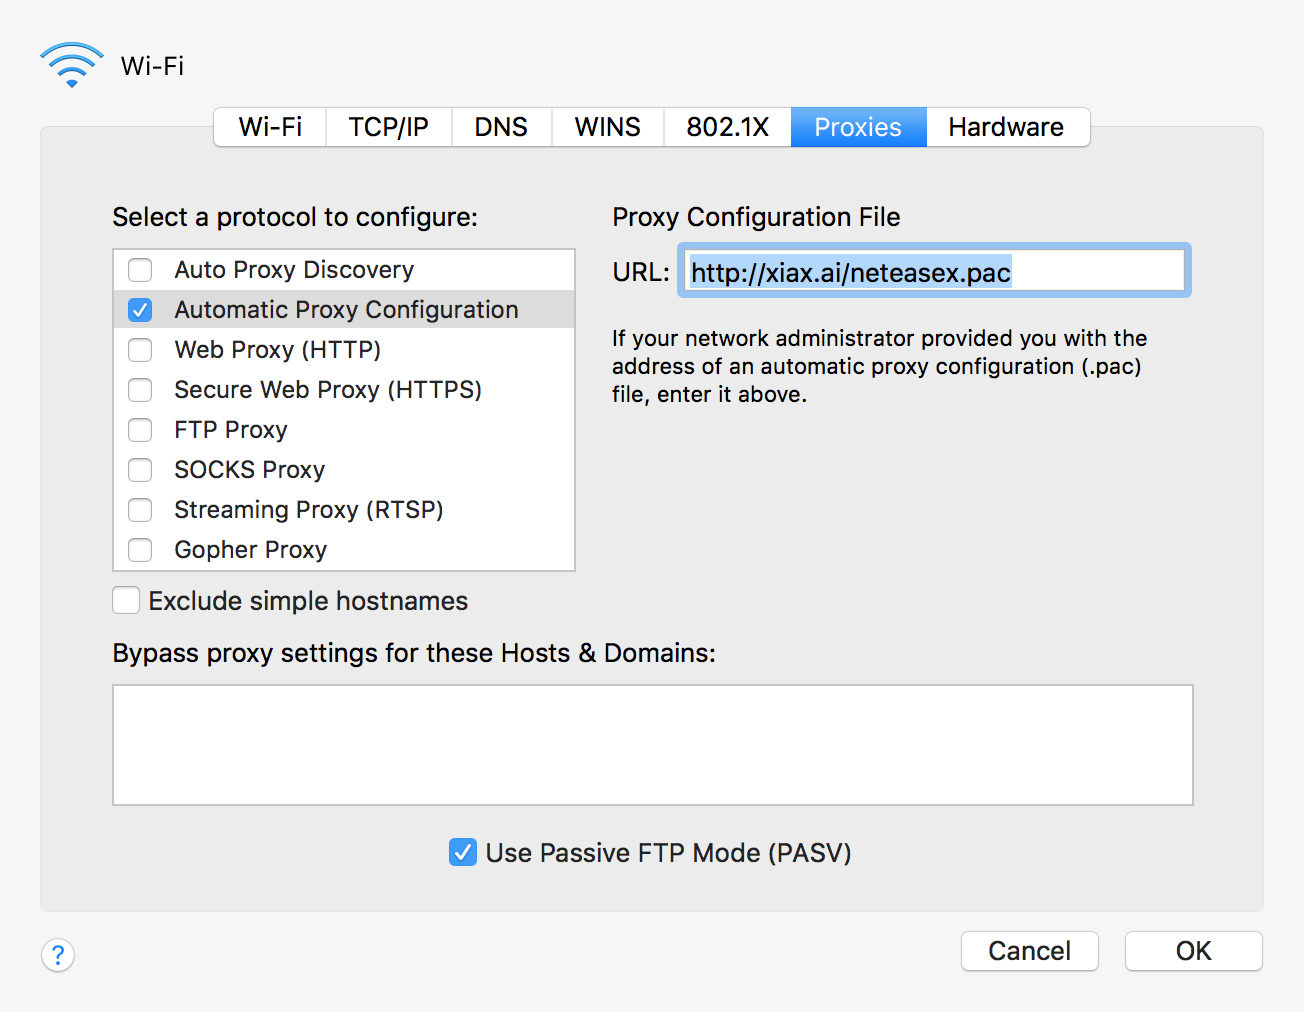
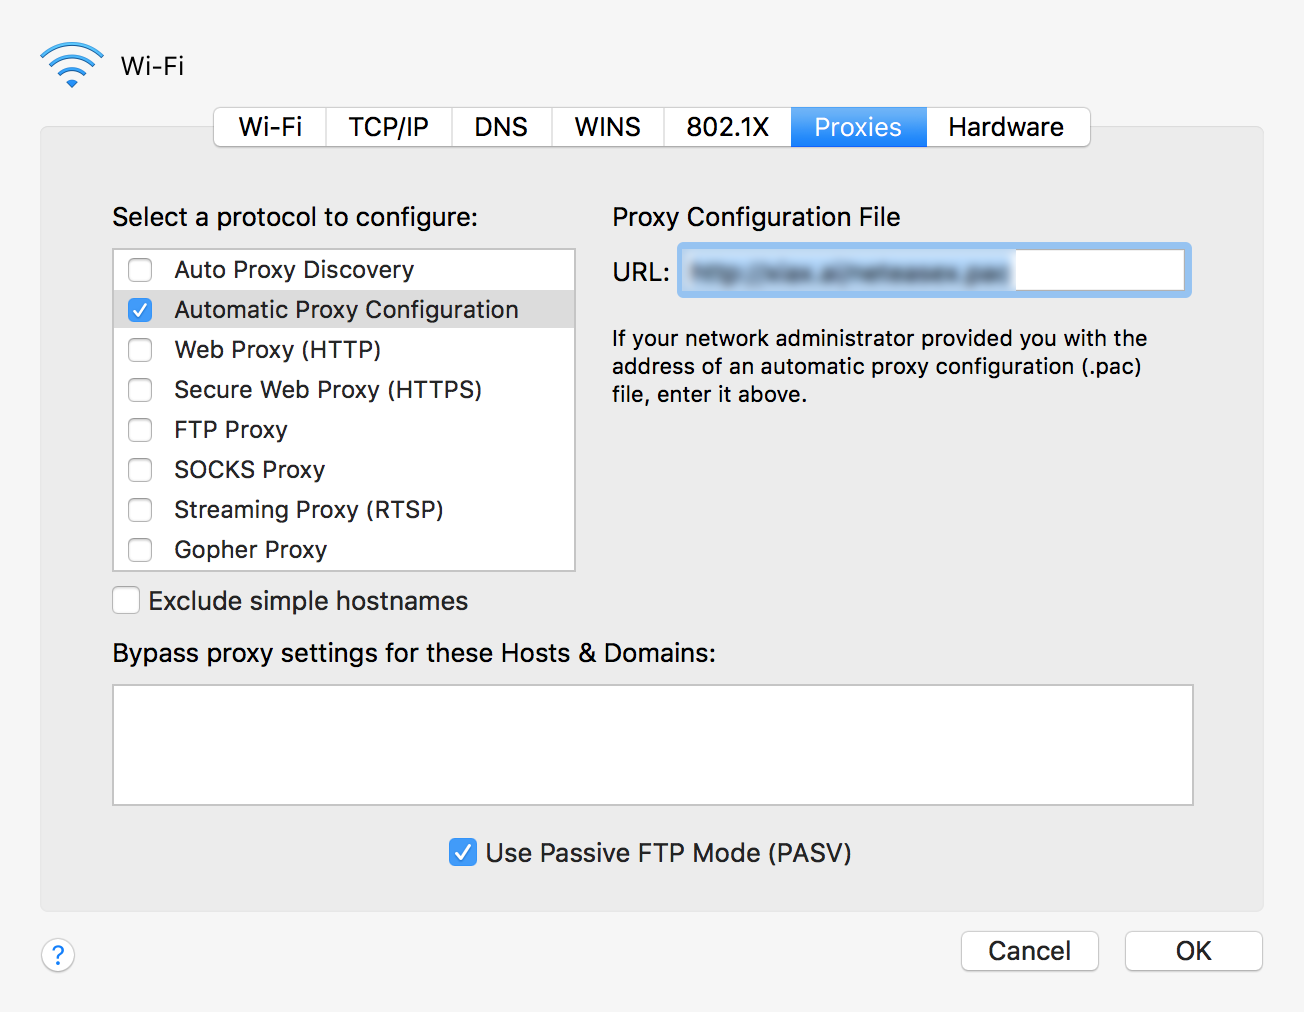
finish dnn post and blur screenshot with anti-163

Changed region(s): [[0.5215, 0.2451, 0.7975, 0.3063]]

diff --git a/source/_posts/DNN-overview-and-Linear-model-with-CNN-features.md b/source/_posts/DNN-overview-and-Linear-model-with-CNN-features.md
@@ -51,8 +51,8 @@ $$ L_i = \sum_{j \ne y_i} max(0, s_j -s{y_i} + \Delta) $$
 2. $ j \ne y_i$ for all incorrect class
 3. $s_j$ for weight of the true label class
 4. $s_{y_i}$ for weight of other incorrect class
-4. $\Delta$ for tolerence of the difference
-5. $max(0, -)$ aka hinge loss, people sometimes use squared hinge loss as $max(0, -)^2$ that penalizes violated margins more strongly. Usually linear hinge loss is good enough. 
+5. $\Delta$ for tolerence of the difference
+6. $max(0, -)$ aka hinge loss, people sometimes use squared hinge loss as $max(0, -)^2$ that penalizes violated margins more strongly. Usually linear hinge loss is good enough. 
 
 In summary, the SVM loss function wants the score of the correct class $y_i$ to be larger than the incorrect class scores by at least by $\Delta$ (delta). If this is not the case, we will accumulate loss.
 
@@ -178,7 +178,7 @@ for step_size_log in [-10, -9, -8, -7, -6, -5,-4,-3,-2,-1]:
 ```
 
 2. Analytic Gradient
-Because of the fact numerical gradient are expensive to compute for datasets with millions of features which is very common for DNNs. ( Because each step needs to compute the gradient for each feature, so it is linear complexity).
+  Because of the fact numerical gradient are expensive to compute for datasets with millions of features which is very common for DNNs. ( Because each step needs to compute the gradient for each feature, so it is linear complexity).
 
 We normally use the other option: **analytic gradient**.
 
@@ -234,7 +234,19 @@ In short, for each training instance the backpropagation algorithm first makes a
 
 The Math details is skipped here, for details checkout here: [Back Propagation](http://cs231n.github.io/optimization-2/).
 
-### Refrence
+### The code
+So now we have a basic understanding of how Vgg works behind the scene and some fundaments about DNN. It's time to dig what's happening in the finetuning step. Basically, we just need to converge the 1000-categories output to our 2-categories output. 
+
+How can we do that?
+
+Just apply a DNN to it:
+1. Take the 1000 categories result as an input array of shape `[1000, 1]`.
+2. Train a DNN to fit the `[1000, 1]` input to `[2, 1]` ouput using the training set.
+3. Remove the original `1000 categories` layer and append our new layer.
+
+Checkout the [Source Code](https://github.com/xxf1995/learn_fast_ai/blob/master/Lesson%202%20Linear%20Model%20with%20CNN%20Features%20--%20Active%20Recall.ipynb) here for details.
+
+### Reference
 
 - [Fast.ai Lesson 2](http://wiki.fast.ai/index.php/Lesson_2_Notes)
 - [CS231n Convolutional Neural Networks for Visual Recognition](http://cs231n.github.io/)

diff --git a/source/_posts/anti-music163-pac.md b/source/_posts/anti-music163-pac.md
@@ -15,7 +15,7 @@ A lot of Chinese enjoy music of their own languages which are rarely accessible 
 - Click Advanced tab in the corner.
 - Choose proxy tab.
 - Choose Automatic Proxy Configuration (The second item on the list)
-- Add `http://xiax.ai/neteasex.pac` to the URL field.
+- Add `PAC_URL` to the URL field. (I provided my configuration here originally, but apparently frequent access from the same IP results in IP-ban on the server; sorry that I can't provide that anymore)
   Should look like this screenshot.
   ![PAC Config on macOS](pac_mac_config.png)
 - Then click ok to go back.
@@ -24,5 +24,5 @@ A lot of Chinese enjoy music of their own languages which are rarely accessible 
 
 ### Ref
 
-- If you are in Europe, use this config url instead: `https://s1.jixun.moe/163/proxy.pac` by `jixun66`
-- [server config for this pac to work if you want to host your own server](https://jixun.moe/2017/01/01/ymusic-hosts-fix/)
+- If you are in Europe, use this config url as `PAC_URL`: `https://s1.jixun.moe/163/proxy.pac` by `jixun66`. (You can still use this in US, it would be slower tho)
+- [If you want to setup your own server](https://jixun.moe/2017/01/01/ymusic-hosts-fix/)
